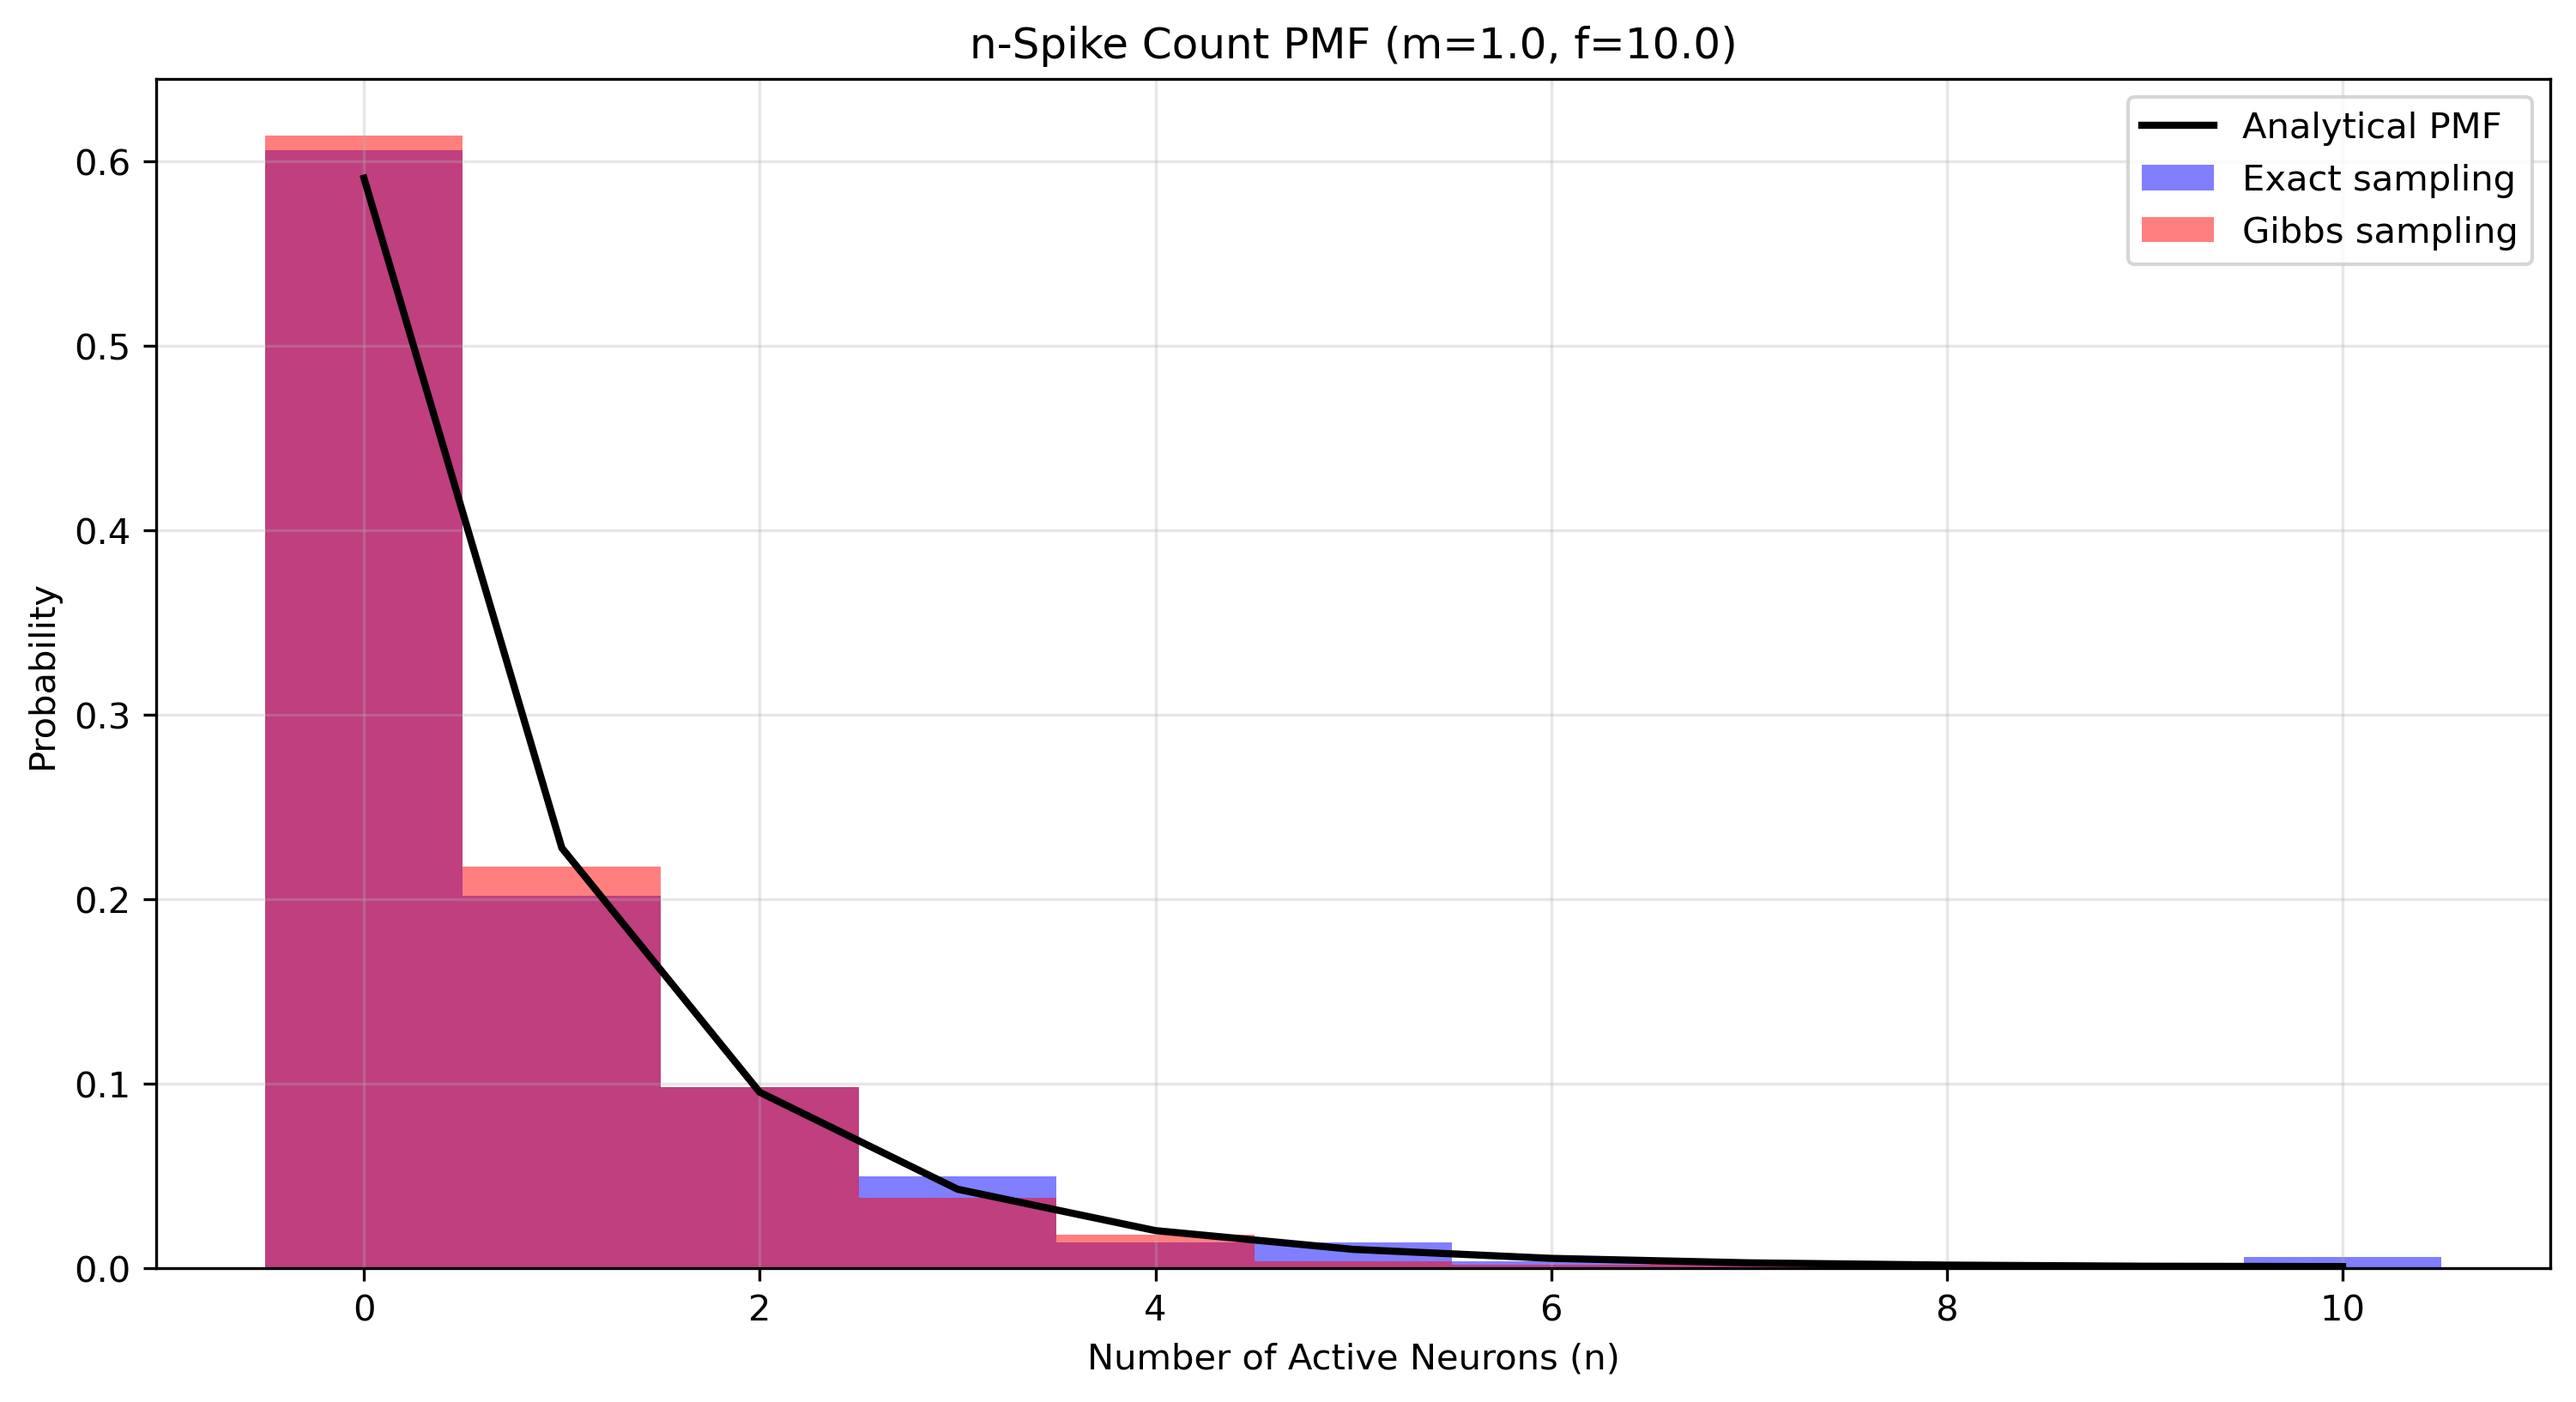
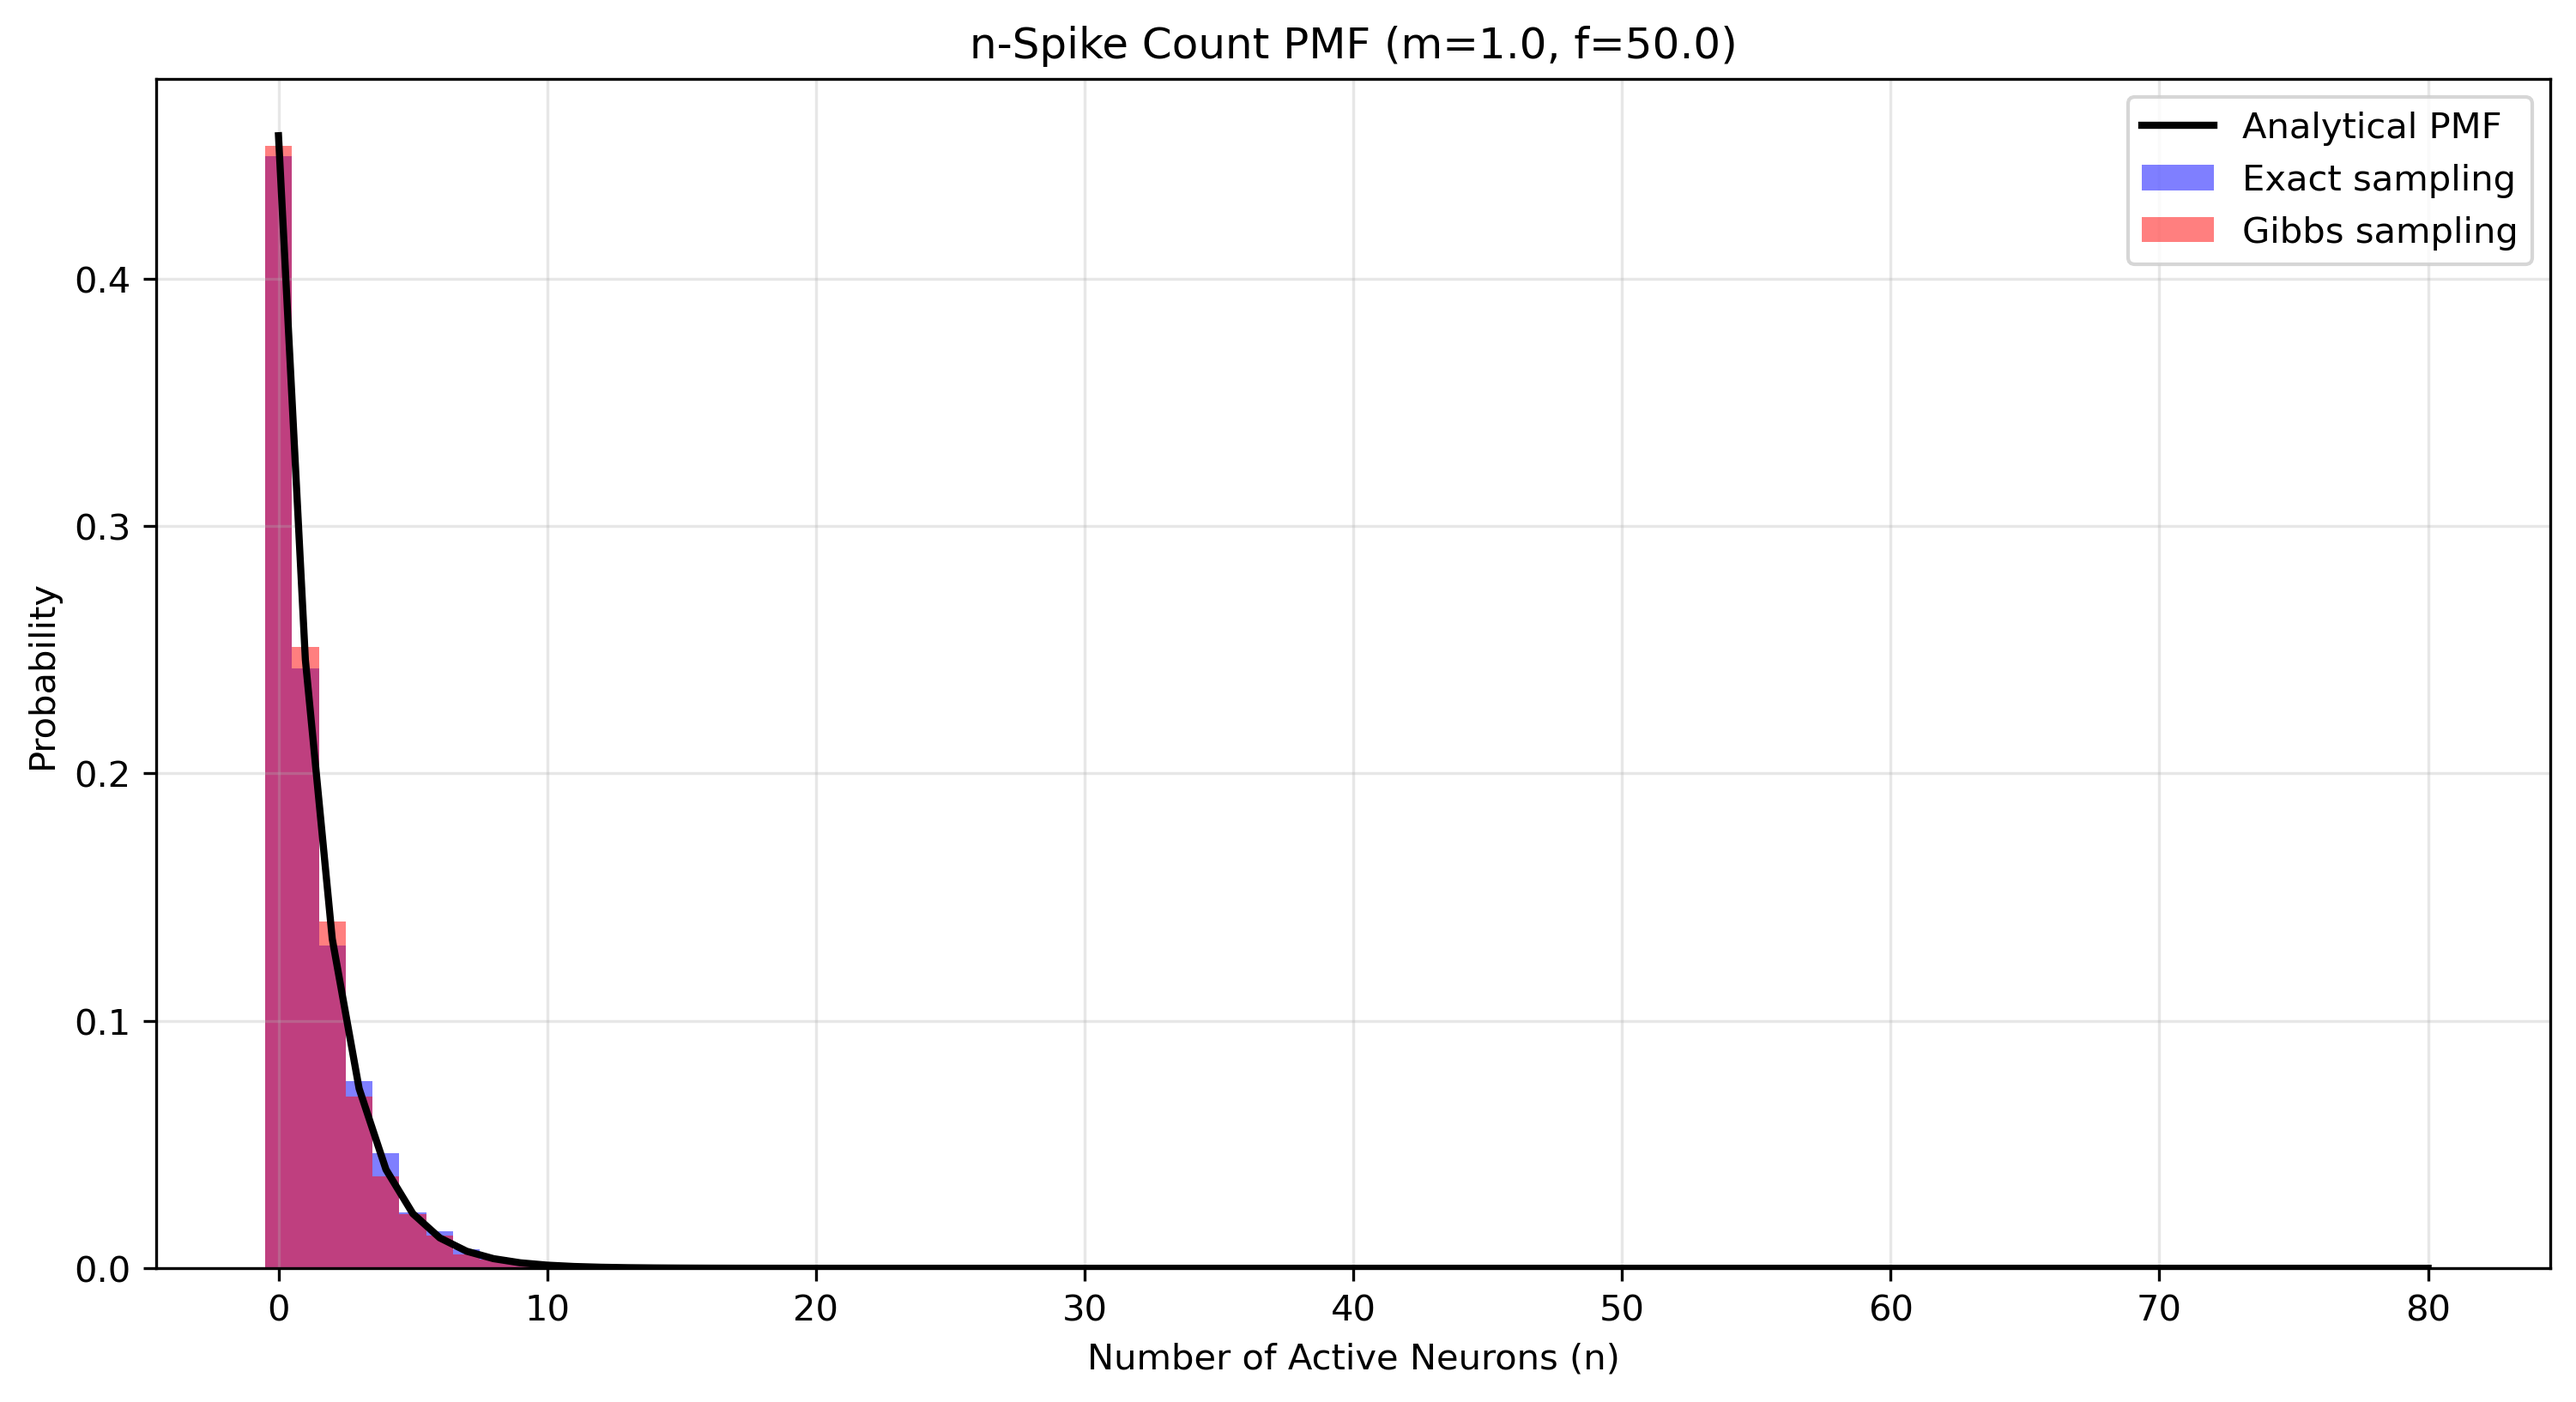
Update model files and generated figure

diff --git a/model_alternating_shrinking.py b/model_alternating_shrinking.py
@@ -169,11 +169,17 @@ def gibbs_sampler(N, f, Cj_func, h_func, steps=10000, burn_in=1000, seed=None):
 
 if __name__ == "__main__":
     # Parameters
-    N = 100
-    f = 10.0
+    N = 80
+    f = 50.0
+    h_func = lambda n: 1.0 / comb(N, n) if 0 <= n <= N else 0.0
+
+    #Polylogarithmic exponential distribution
     m = 1.0
     Cj_func = lambda j: 1 / j**m
-    h_func = lambda n: 1.0 / comb(N, n) if 0 <= n <= N else 0.0
+
+    #Shifted-geometric exponential distribution
+    # tau = 1.0
+    # Cj_func = lambda j: tau**j
 
     # Compute PMF
     pmf = compute_n_spike_pmf_with_func(N, f, Cj_func)

diff --git a/model_homogeneous_exp.py b/model_homogeneous_exp.py
@@ -141,7 +141,7 @@ def estimate_map_parameters(N, S, M, h, q, theta0=None):
 
     res = minimize(negative_log_posterior, theta0, 
                   jac=gradient_negative_log_posterior, 
-                  method='L-BFGS-B', 
+                  method='BFGS', 
                   options={'disp':False})
     return res
 
